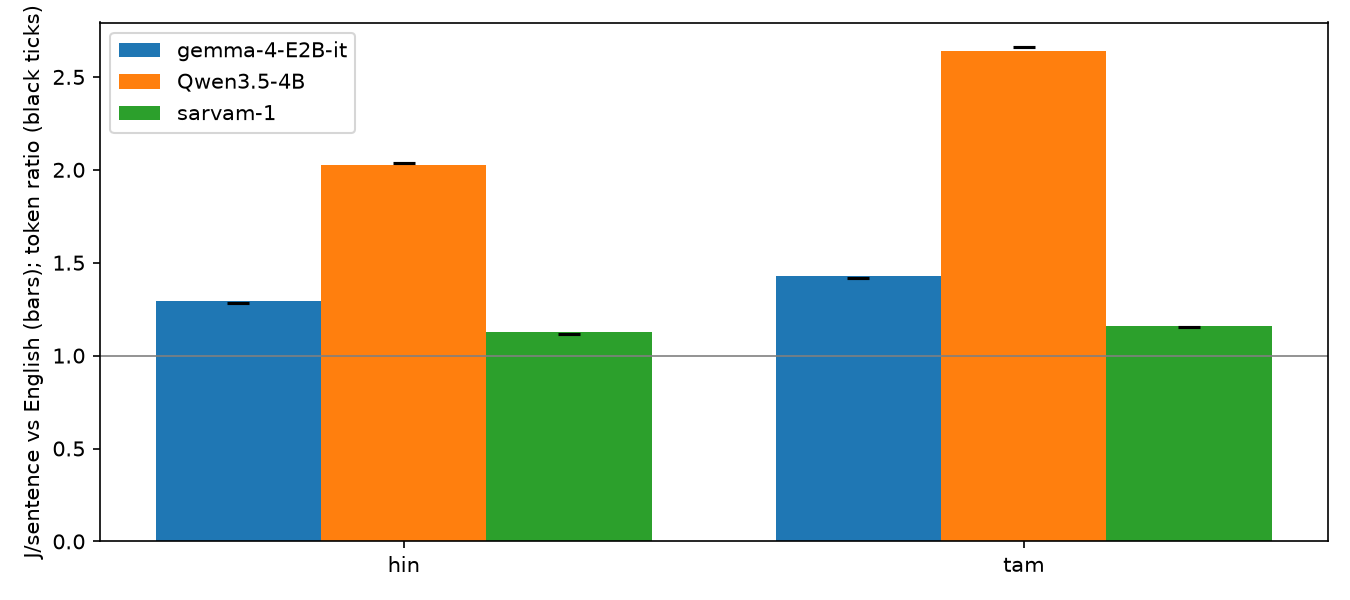
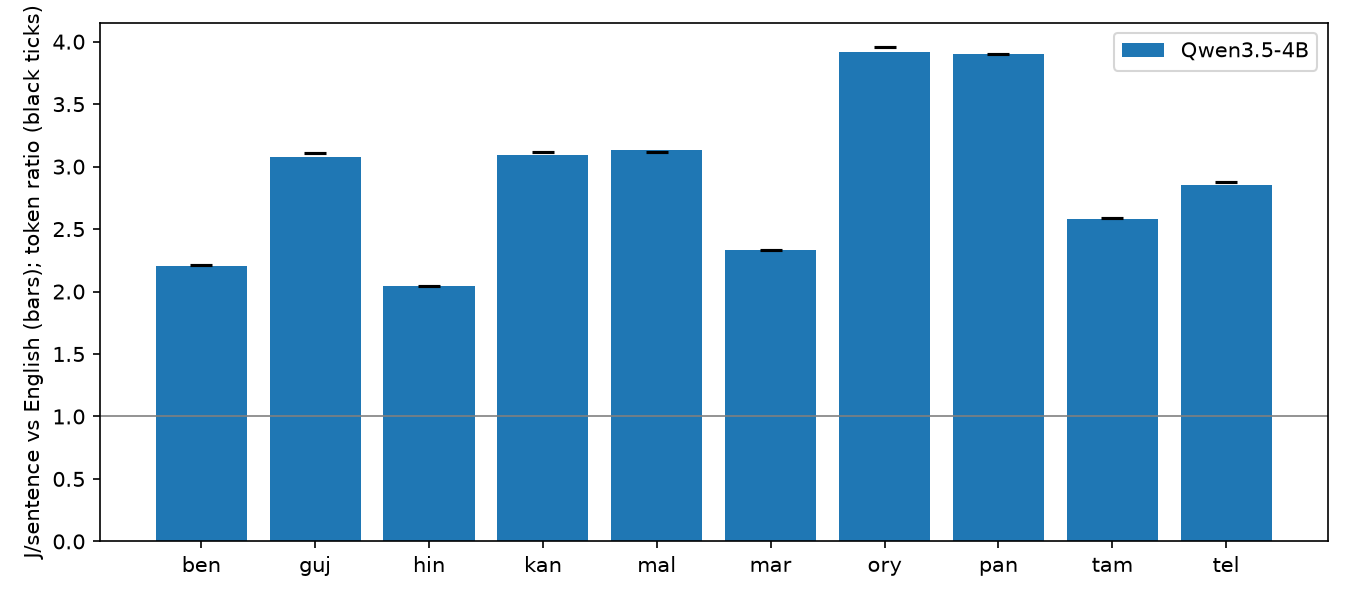
summary.json builder (reads measured analysis files only)
Claude-Session: https://claude.ai/code/session_01Qwonswgah47LTFY6xH3TLf

diff --git a/src/build_summary.py b/src/build_summary.py
@@ -1,0 +1,24 @@
+"""Build results/summary.json from measured analysis files only. Nothing here is typed in by hand."""
+import json
+
+m1 = json.load(open("results/m1_token_counts.json"))
+m3 = json.load(open("results/analysis_m3.json")); m4 = json.load(open("results/analysis_m4.json"))
+meta = json.load(open("results/t4/m3_qwen35_4b.json"))["meter"]            # GPU info logged by the harness during a measured run
+
+best = max(((v["energy_ratio"], l, o["model"]) for o in m3 for l, v in o["langs"].items() if l != "eng_Latn"))
+g = next(o for o in m4 if o["draft"] and "gemma" in o["model"]); d = g["methods"]["draft"]   # headline: draft-model speculation on Gemma 4 E2B
+def kaggle_versions(log="kaggle/out1/notebook82ea1dd796.log"):      # versions printed by `pip list` inside a Kaggle T4 job
+    out = "".join(e["data"] for e in json.load(open(log)) if e["stream_name"] == "stdout")
+    return {l.split()[0]: l.split()[1] for l in out.splitlines() if l.split()[:1] and l.split()[0] in ("torch", "transformers", "flash-linear-attention", "triton")}
+
+summary = {
+    "num_languages": len(m1["results"]["qwen3.5"]["per_lang"]),          # includes English
+    "num_tokenizers": len(m1["results"]),
+    "max_energy_ratio_vs_english": {"ratio": best[0], "language": best[1], "model": best[2]},
+    "energy_gap_reduction_pct": {"value": d["gap_reduction_pct"], "ci95": d["gap_reduction_ci95"], "method": "draft", "model": g["model"],
+                                 "note": "negative = gap widened; see energy_change_pct_* in results/analysis_m4.json before interpreting"},
+    "draft_model_params": g["draft_params"],
+    "hardware": {"gpu": meta["gpu"], "driver": meta["driver"], "energy_meter": meta["mode"], "gpus_visible_to_job": 2, "gpus_used": 1},
+    "software": kaggle_versions() | {"note": "from pip list in the stage-1 Kaggle T4 pilot job (python 3.13 image); later runs executed pip install -U, so patch versions may differ"},
+}
+json.dump(summary, open("results/summary.json", "w"), indent=1, default=float); print(json.dumps(summary, indent=1, default=float))
